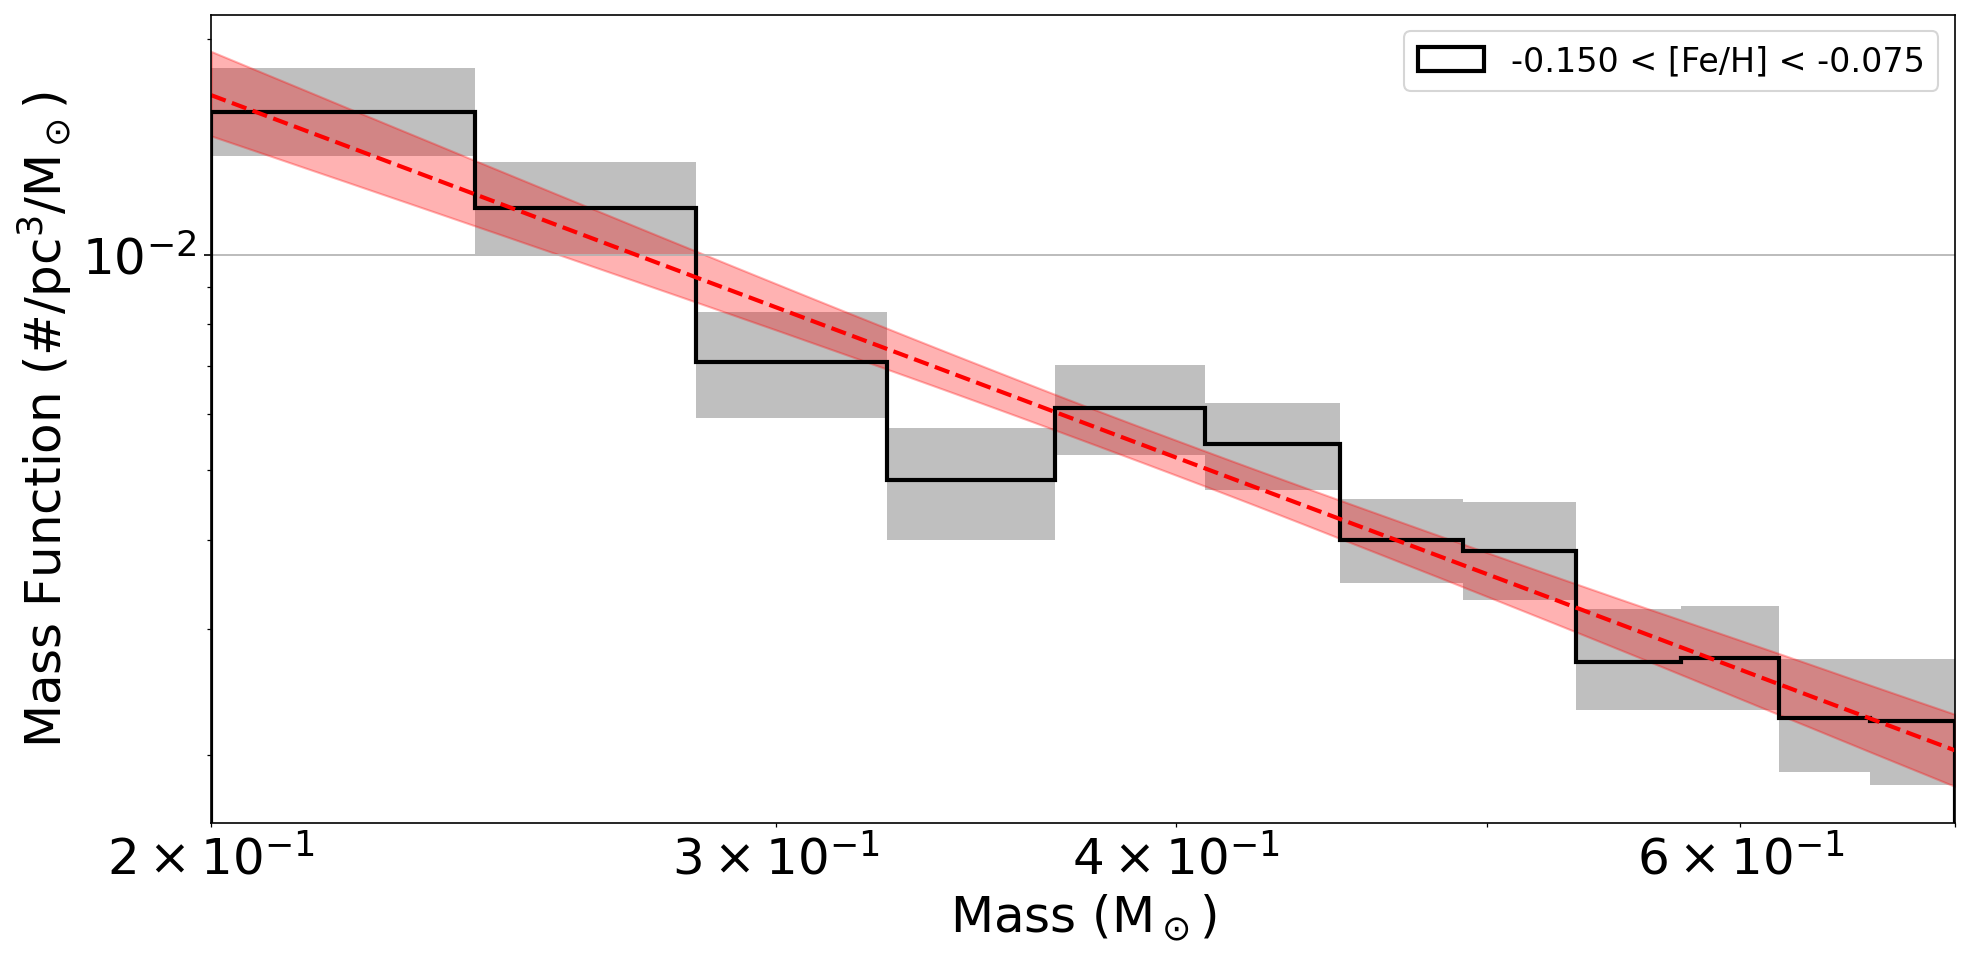
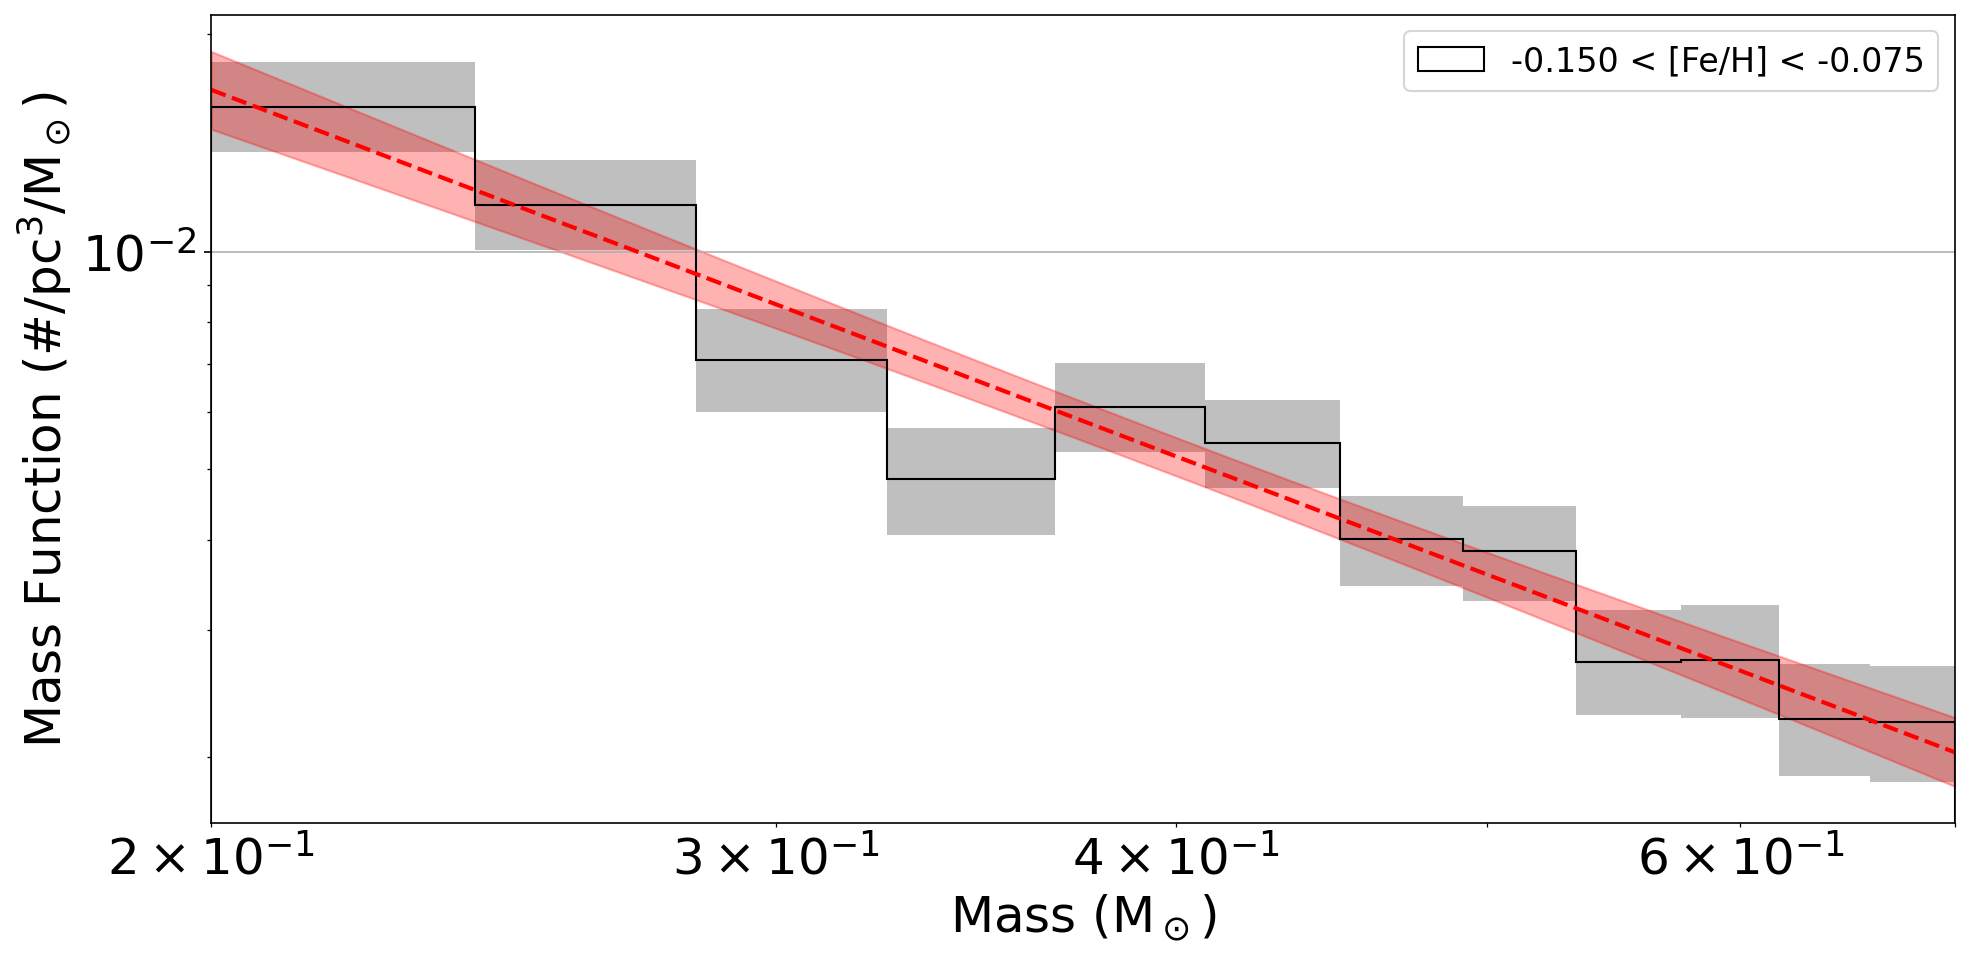
run on gpu

diff --git a/notebooks/forward_model_MF.py b/notebooks/forward_model_MF.py
@@ -20,6 +20,9 @@ from scipy.optimize import minimize
 
 
 def mass_est(MK, *args, feh=None):
+    """
+    Get mass based on Mann 2019 relation
+    """
     if feh is None:
         mass = 10 ** np.polyval(args[::-1], MK - 7.5)
     else:
@@ -32,10 +35,18 @@ def mass_est(MK, *args, feh=None):
 
 def _parse_params(params: list) -> Tuple[float, float, float, float, bool]:
     """
-    Accepts params as length 2 or 4:
-      [logC, alpha]            -> single power law
-      [logC, alpha1, alpha2, log_mb] -> broken power law
-    Returns parsed params
+    Parse params for both single and broken power law
+
+    Parameters
+    ---------
+    params: list
+        of length 2 or 4. [logC, alpha] for single power law.
+        logC, alpha1, alpha2, log_mb] for broken power law
+
+    Returns
+    -------
+    Returns parsed params and if broken or not. mb = inf if
+    single power law
     """
     p = np.asarray(params, dtype=float)
     if p.size == 2:
@@ -58,7 +69,7 @@ def _parse_params(params: list) -> Tuple[float, float, float, float, bool]:
 def xi_from_params(params: list | np.ndarray, m: np.ndarray):
     """
     Return xi(m) = dN/dm value(s) for array-like m using params.
-    Accepts 2 or 4 parameter forms.
+    Accepts 2 or 4 parameter forms (single or broken power law).
     """
     C, alpha1, alpha2, mb, is_broken = _parse_params(params)
     m = np.asarray(m, dtype=float)
@@ -75,8 +86,7 @@ def xi_from_params(params: list | np.ndarray, m: np.ndarray):
 @jax.jit
 def _integral_power_law_jax(a, b, C, alpha):
     """
-    Integral of C * m^{-alpha} dm from a to b, JAX-compatible.
-    Uses jnp.where to avoid branching on traced values.
+    Integral of C * m^{-alpha} dm from a to b
     """
     # alpha == 1 case: C * log(b/a)
     # alpha != 1 case: C / (1 - alpha) * (b^(1-alpha) - a^(1-alpha))
@@ -89,34 +99,43 @@ def _integral_power_law_jax(a, b, C, alpha):
 @jax.jit
 def model_bin_density_jax(edges: jnp.ndarray, params: jnp.ndarray) -> jnp.ndarray:
     """
-    JAX model bin density for a single params vector [logC, alpha1, alpha2, log_mb].
-    All branching is done with jnp.where so this is fully JIT/vmap-compatible.
+    Model the bin density of a MF that follows a single or
+    broken power law
 
-    edges : shape (N+1,)  — bin edges
-    params: shape (4,)    — [logC, alpha1, alpha2, log_mb]
-    returns: shape (N,)   — average differential density per bin
+    Parameters
+    -----------
+    edges: jnp.ndarray
+        bin edges of the histogram. Must be linear!
+    
+    params: jnp.ndarray
+        power law parameters of [logC, alpha1, alpha2, log_mb].
+        if mb is inf, then single power law
+
+    Returns
+    --------
+    y_model: jnp.ndarray
+        average differential density per bin
     """
     logC, alpha1, alpha2, log_mb = params[0], params[1], params[2], params[3]
-    C  = 10.0**logC
-    mb = 10.0**log_mb
+    C  = 10.0 ** logC
+    mb = 10.0 ** log_mb
 
-    lo = edges[:-1]   # (N,)
-    hi = edges[1:]    # (N,)
+    lo = edges[:-1]
+    hi = edges[1:]
     width = hi - lo
 
     # Continuity factor so the two power laws join at mb
-    C2 = C * (mb**(alpha2 - alpha1))
+    C2 = C * (mb ** (alpha2 - alpha1))
 
-    # ---- bins fully below break (hi <= mb) ----
+    # bins below break
     integral_below = _integral_power_law_jax(lo, hi, C, alpha1)
     y_below = integral_below / width
 
-    # ---- bins fully above break (lo >= mb) ----
+    # bins above break
     integral_above = _integral_power_law_jax(lo, hi, C2, alpha2)
     y_above = integral_above / width
 
-    # ---- bins that straddle the break ----
-    # clamp integration limits so they're valid even when this bin doesn't straddle
+    # bins at break
     lo_clamp = jnp.minimum(lo, mb)
     hi_clamp = jnp.maximum(hi, mb)
     integral_cross = (
@@ -125,11 +144,9 @@ def model_bin_density_jax(edges: jnp.ndarray, params: jnp.ndarray) -> jnp.ndarra
     )
     y_cross = integral_cross / width
 
-    # Select the right case per bin using jnp.where (no Python branching)
+    # select right cases based on binning
     below_mask = hi <= mb
     above_mask = lo >= mb
-    # straddle = not below and not above
-
     y_model = jnp.where(below_mask, y_below,
                jnp.where(above_mask, y_above,
                          y_cross))
@@ -139,23 +156,33 @@ def model_bin_density_jax(edges: jnp.ndarray, params: jnp.ndarray) -> jnp.ndarra
 @jax.jit
 def obj_logsq_jax(params: jnp.ndarray, edges: jnp.ndarray, y: jnp.ndarray) -> jnp.ndarray:
     """
-    JAX objective: sum of squared log residuals.
-    Returns a large value (1e9) where y or ymod are non-positive via jnp.where.
+    Objective function for MF model
 
-    params: (4,)
-    edges:  (N+1,)
-    y:      (N,)
+     Parameters
+    -----------
+    edges: jnp.ndarray
+        bin edges of the histogram. Must be linear!
+    
+    params: jnp.ndarray
+        power law parameters of [logC, alpha1, alpha2, log_mb].
+        if mb is inf, then single power law
+    
+    y: jnp.ndarray
+        observed density
+    
+    Returns
+    -------
+    log squared difference between observations and model
     """
     ymod = model_bin_density_jax(edges, params)
 
     # Valid mask: both y and ymod positive
     valid = (y > 0) & (ymod > 0)
 
-    log_resid_sq = jnp.where(valid, (jnp.log(y) - jnp.log(ymod))**2, 0.0)
+    log_resid_sq = jnp.where(valid, (jnp.log(y) - jnp.log(ymod)) ** 2, 0.0)
     loss = jnp.sum(log_resid_sq)
 
     # If no valid points at all, return a large penalty
-    # (jnp.where keeps this differentiable)
     return jnp.where(jnp.any(valid), loss, 1e9)
 
 
@@ -171,14 +198,23 @@ def fit_broken_powerlaw_batch(
 
     Parameters
     ----------
-    Nmass_boot : (size, n_bins)  — one histogram per row
-    mass_bins  : (n_bins+1,)    — bin edges
-    p0         : (4,)           — initial guess (numpy)
-    bounds     : list of (lo, hi) tuples, length 4
+    Nmass_boot: np.ndarray
+        bootstrap of MFs, of shape (size, n_bins)
+
+    mass_bins: np.ndarray
+        bin edges of historgam of MF
+
+    p0: np.ndarray
+        initial guess for power law
+
+    bounds: list
+        list of (lo, hi) tuples, length 4
 
     Returns
     -------
-    params_boot : (size, 4) numpy array
+    params_boot: np.ndarray
+        power law parameters for each bootstrap
+        of shape (size, 4)
     """
     edges = jnp.array(mass_bins, dtype=jnp.float64)
     Y     = jnp.array(Nmass_boot, dtype=jnp.float64)   # (size, n_bins)
@@ -192,7 +228,6 @@ def fit_broken_powerlaw_batch(
     upper = jnp.array([b[1] for b in bounds], dtype=jnp.float64)
 
     # Build the jaxopt solver.
-    # fun receives (params, y_row) — y_row is the per-sample "hyperparameter"
     solver = jaxopt.LBFGSB(
         fun=obj_logsq_jax,
         maxiter=500,
@@ -217,7 +252,9 @@ def fit_broken_powerlaw_batch(
 
 
 if __name__ == '__main__':
-    # set up bins and filtering
+    # =============================
+    # SET UP DATA FOR FORWARD MODEL
+    # =============================
     MG_bin_list = [0, 20, 0.25]
 
     sf_bins={'healpix': 3,
@@ -277,7 +314,9 @@ if __name__ == '__main__':
                     'fe_h_corr']
         data_slam[cols_save].write_csv('aspcap_slam_fe_h_corr_snc_forward_data.csv')
 
-    # setup the forward model
+    # =======================================
+    # RUN THE FORWARD MODEL FOR EACH FE/H BIN
+    # =======================================
     mean = False
     sf = SNCSelectionFunction('aspcap_slam_fe_h_corr_snc_forward_data.csv',
                               sf_bins, MG_bin_list,
@@ -297,9 +336,9 @@ if __name__ == '__main__':
     for i in range(len(fe_h_bins) - 1):
         filter_data = sf.data.filter((pl.col('fe_h_corr') > fe_h_bins[i]) & (pl.col('fe_h_corr') <= fe_h_bins[i + 1]))
         p_samples, ev_valid = sf.forward_model(filter_data,
-                                               num_warmup=500,
-                                               num_samples=1000,
-                                               num_chains=1)
+                                               num_warmup=5000,
+                                               num_samples=2000,
+                                               num_chains=2)
 
         feh_data.append(filter_data)
         p_samples_feh.append(p_samples)
@@ -307,7 +346,9 @@ if __name__ == '__main__':
 
     RNG = np.random.default_rng(666)
 
-    # get mass from Mann relation
+    # =======================================
+    # ESTIMATE MASS FOR GCNS USING MANN 2019
+    # =======================================
     args = np.array([-0.642, -0.208, -8.43e-4, 7.78e-3, 1.42e-3, -2.13e-4])
     args_mh = np.array([-0.647, -0.207, -6.53e-4, 7.13e-3, 1.84e-5, -2.13e-4, -0.0035])
 
@@ -327,7 +368,9 @@ if __name__ == '__main__':
     mass_gcns = interp(sf.gcns['MG'].to_numpy(), sf.gcns['MBP'].to_numpy(), sf.gcns['MRP'].to_numpy())
     sf.gcns = sf.gcns.with_columns(mass=mass_gcns)
 
-    # now get the mass function and fit broken power law to it
+    # ======================================================
+    # FIT MASS FUNCTION OF EACH SAMPLE WITH BROKEN POWER LAW
+    # ======================================================
     gcns_filter = sf.gcns.filter(pl.Series(sf.gcns_valid))
     Ntot, _, _ = np.histogram2d(gcns_filter['g_rp'].to_numpy(), gcns_filter['MG'].to_numpy(),
                                 bins=[g_rp_bins, MG_bins])
@@ -355,10 +398,12 @@ if __name__ == '__main__':
 
         Nmass_boot = np.zeros((Nboot.shape[0], sf.data['Veff_samps'].to_numpy().shape[1], len(mass_bins) - 1))
         
-        # boot strap the mass function
+        # boot strap the mass function using each sample of chain
+        # and each Vmax value
         for j in range(len(Nboot)):
             ndesire = Nboot[j].ravel()
             sids_j = []
+            # randomlly select GCNS based on p_sub
             for k in range(len(ndesire)):
                 if ndesire[k] > 0:
                     sids_j += list(RNG.choice(source_ids[evs[k]], ndesire[k], replace=False))
@@ -367,7 +412,7 @@ if __name__ == '__main__':
 
             # digitze bins
             ev_mass = (massesj >= mass_bins[0]) & \
-                    (massesj < mass_bins[-1])
+                      (massesj < mass_bins[-1])
             bin_indices = np.digitize(massesj[ev_mass], mass_bins) - 1
 
             # bright the weights back to all sky
@@ -454,7 +499,9 @@ if __name__ == '__main__':
                     bbox_inches='tight')
         plt.close()
 
-    # make plots of the fitted parameters
+    # =====================
+    # PLOT AND SAVE RESULTS
+    # =====================
     label = [r'$\alpha_1$', r'$\alpha_2$', r'$m_b$']
     savename = ['alpha_1', 'alpha_2', 'mb']
     for pi in range(1, 4):
